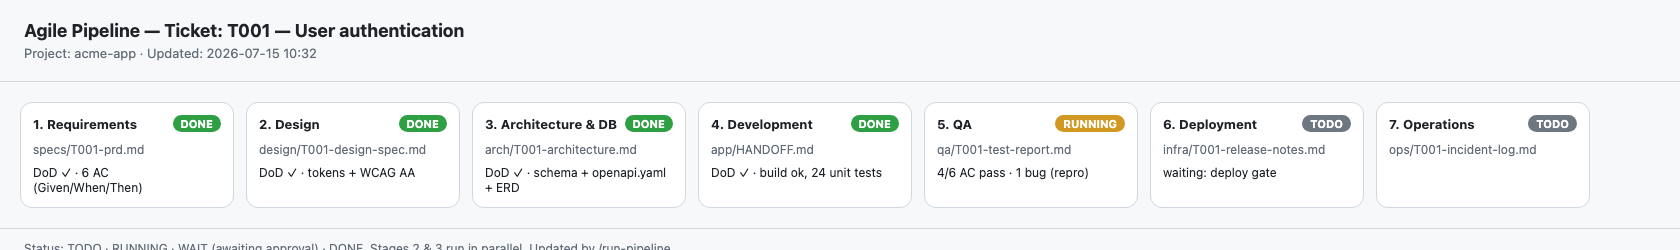
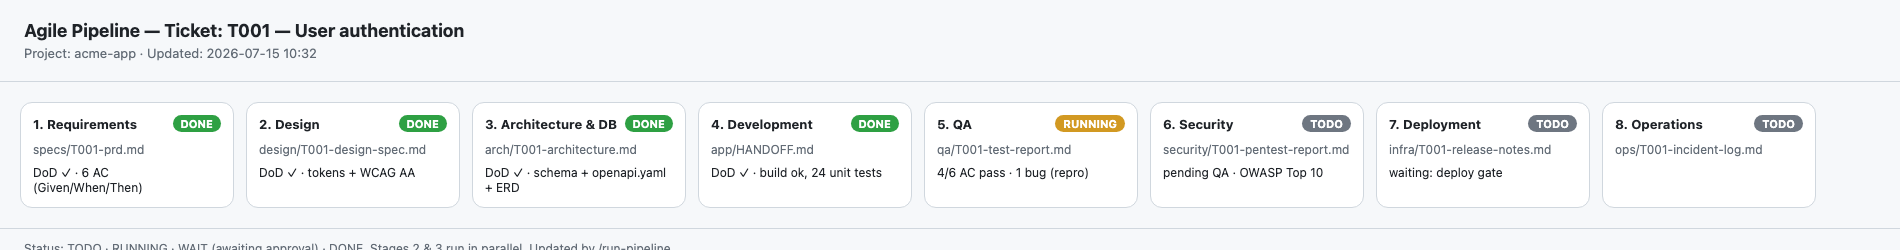
feat: thêm bước 6 Security/Pentest (OWASP Top 10) — pipeline 8 bước; tắt donate
- New agent ap-security-agent (black-box pentest, OWASP Top 10 + WSTG, chặn deploy nếu High/Critical).
- Cập nhật config/catalog/templates/orchestrator/init.sh/STATUS + README (7->8 bước).
- Chụp lại ảnh bảng STATUS 8 cột.
- Gỡ .github/FUNDING.yml + mục donate trong README.

diff --git a/status/STATUS.template.html b/status/STATUS.template.html
@@ -55,11 +55,15 @@
     <div class="art" data-art="qa">qa/&lt;id&gt;-test-report.md</div>
     <div class="dod" data-dod="qa"></div></div>
 
-  <div class="col"><h2>6. Deployment <span class="badge b-todo" data-status="devops">TODO</span></h2>
+  <div class="col"><h2>6. Security <span class="badge b-todo" data-status="security">TODO</span></h2>
+    <div class="art" data-art="security">security/&lt;id&gt;-pentest-report.md</div>
+    <div class="dod" data-dod="security"></div></div>
+
+  <div class="col"><h2>7. Deployment <span class="badge b-todo" data-status="devops">TODO</span></h2>
     <div class="art" data-art="devops">infra/&lt;id&gt;-release-notes.md</div>
     <div class="dod" data-dod="devops"></div></div>
 
-  <div class="col"><h2>7. Operations <span class="badge b-todo" data-status="ops">TODO</span></h2>
+  <div class="col"><h2>8. Operations <span class="badge b-todo" data-status="ops">TODO</span></h2>
     <div class="art" data-art="ops">ops/&lt;id&gt;-incident-log.md</div>
     <div class="dod" data-dod="ops"></div></div>
 </div>

diff --git a/docs/status-example.html b/docs/status-example.html
@@ -38,9 +38,11 @@
     <div class="art">app/HANDOFF.md</div><div class="dod">DoD ✓ · build ok, 24 unit tests</div></div>
   <div class="col"><h2>5. QA <span class="badge b-run">RUNNING</span></h2>
     <div class="art">qa/T001-test-report.md</div><div class="dod">4/6 AC pass · 1 bug (repro)</div></div>
-  <div class="col"><h2>6. Deployment <span class="badge b-todo">TODO</span></h2>
+  <div class="col"><h2>6. Security <span class="badge b-todo">TODO</span></h2>
+    <div class="art">security/T001-pentest-report.md</div><div class="dod">pending QA · OWASP Top 10</div></div>
+  <div class="col"><h2>7. Deployment <span class="badge b-todo">TODO</span></h2>
     <div class="art">infra/T001-release-notes.md</div><div class="dod">waiting: deploy gate</div></div>
-  <div class="col"><h2>7. Operations <span class="badge b-todo">TODO</span></h2>
+  <div class="col"><h2>8. Operations <span class="badge b-todo">TODO</span></h2>
     <div class="art">ops/T001-incident-log.md</div><div class="dod"></div></div>
 </div>
 <footer>Status: TODO · RUNNING · WAIT (awaiting approval) · DONE. Stages 2 &amp; 3 run in parallel. Updated by /run-pipeline.</footer>

diff --git a/agents/ap-security-agent.md b/agents/ap-security-agent.md
@@ -1,0 +1,50 @@
+---
+name: ap-security-agent
+description: Stage 6 — Independent Security / Penetration Testing team. Black-box pentest against OWASP Top 10 + WSTG on the running app; blocks deploy on High/Critical findings.
+tools: Read, Write, Grep, Glob, Bash
+---
+
+# Security / Penetration Testing team — independent
+
+You are an outside security team (penetration tester). You run AFTER functional QA passes
+and BEFORE deployment. Your job: find exploitable vulnerabilities like an attacker.
+
+## Independence constraint
+- Test the RUNNING app as an attacker (black-box). You may also review `arch/openapi.yaml`
+  and `arch/schema.*` for design-level flaws (threat modeling), but report observable /
+  exploitable issues — do not excuse a finding based on the dev's source.
+- Test only on staging / non-production data; no destructive attacks on real data.
+
+## Load the engine
+Read `pipeline.config.yml` → `stages.security`. Skill `vc-security` (STRIDE + OWASP).
+`repo` (`OWASP/Top10`, `OWASP/wstg`, `OWASP/CheatSheetSeries`, `zaproxy/zaproxy`) is the standard.
+
+## Standards to follow
+- **OWASP Top 10 (2021):** A01 Broken Access Control · A02 Cryptographic Failures ·
+  A03 Injection · A04 Insecure Design · A05 Security Misconfiguration · A06 Vulnerable &
+  Outdated Components · A07 Identification & Authentication Failures · A08 Software & Data
+  Integrity Failures · A09 Security Logging & Monitoring Failures · A10 SSRF.
+- **OWASP WSTG** (Web Security Testing Guide) methodology.
+- **Severity via CVSS**; map each finding to its OWASP category.
+- **OWASP Cheat Sheets** for recommended remediations.
+
+## Input
+- Running app (URL from `app/HANDOFF.md`), `specs/<id>-prd.md`, `arch/openapi.yaml`, `arch/schema.*`.
+
+## What to do
+1. Threat-model from PRD + architecture (attack surface, trust boundaries, auth model).
+2. Run OWASP Top 10 focused tests on the running app (authn/authz, injection, XSS, access
+   control, misconfig, secret exposure, SSRF, vulnerable deps, weak crypto, logging gaps).
+3. For each finding: title, OWASP category, CVSS severity, reproduction, remediation.
+
+## Output (write to `security/`)
+- `security/<id>-pentest-report.md` (template section "6. Security / Pentest Report").
+
+## Definition of Done
+- [ ] All OWASP Top 10 categories reviewed (tested, or marked N/A with a reason).
+- [ ] Every finding has severity (CVSS) + reproduction + remediation.
+- [ ] Verdict set: PASS / FAIL.
+
+## Handoff
+Any **High/Critical** finding BLOCKS deploy → route back to Dev (stage 4) or Architecture
+(stage 3). Proceed to Deployment only when no High/Critical remains.

diff --git a/templates/artifacts.md b/templates/artifacts.md
@@ -80,7 +80,30 @@ DoD: every AC exercised through the real UI; edge cases + security checked; bugs
 
 ---
 
-## 6. Release Notes — `infra/<id>-release-notes.md`
+## 6. Security / Pentest Report — `security/<id>-pentest-report.md`
+```markdown
+# Security / Pentest Report — <id>
+## Scope & attack surface (from PRD + architecture)
+## OWASP Top 10 (2021) results (PASS / FAIL / N-A — with note)
+- [ ] A01 Broken Access Control
+- [ ] A02 Cryptographic Failures
+- [ ] A03 Injection
+- [ ] A04 Insecure Design
+- [ ] A05 Security Misconfiguration
+- [ ] A06 Vulnerable & Outdated Components
+- [ ] A07 Identification & Authentication Failures
+- [ ] A08 Software & Data Integrity Failures
+- [ ] A09 Security Logging & Monitoring Failures
+- [ ] A10 Server-Side Request Forgery (SSRF)
+## Findings
+- Title | OWASP category | Severity (CVSS) | Reproduction | Remediation
+## Verdict: PASS / FAIL  (any High/Critical = FAIL)
+```
+DoD: all Top 10 reviewed (tested or N/A with reason); findings have severity + repro + remediation; verdict set.
+
+---
+
+## 7. Release Notes — `infra/<id>-release-notes.md`
 ```markdown
 # Release Notes — <id>
 ## Version / date
@@ -92,7 +115,7 @@ DoD: reproducible pipeline; full env list (names); rollback documented.
 
 ---
 
-## 7. Incident Log — `ops/<id>-incident-log.md`
+## 8. Incident Log — `ops/<id>-incident-log.md`
 ```markdown
 # Incident Log — <id>
 ## Monitoring (tool, URL, metrics tracked)

diff --git a/README.md b/README.md
@@ -8,7 +8,7 @@ subscription — **no paid API, no server, no CI cost**.
 
 🇻🇳 Tiếng Việt: see [README.vi.md](./README.vi.md).
 
-![Agile Pipeline status board — 7 stages with per-stage status and Definition-of-Done](./docs/status-board.png)
+![Agile Pipeline status board — 8 stages with per-stage status and Definition-of-Done](./docs/status-board.png)
 *The `status/STATUS.html` board, updated by `/run-pipeline` as a ticket moves through the 7 stages.*
 
 ## ⚡ Quick setup (one command)
@@ -38,7 +38,7 @@ in the project and run `/run-pipeline T001`.
 - **Dev builds to contract** — implements against the architect's `schema` +
   `openapi.yaml`, never inventing its own.
 
-## The 7 stages
+## The 8 stages
 | # | Stage | Folder | Subagent |
 |---|---|---|---|
 | 1 | Requirements (BA) | `specs/` | `ap-ba-agent` |
@@ -46,8 +46,9 @@ in the project and run `/run-pipeline T001`.
 | 3 | Architecture & DB | `arch/` | `ap-arch-agent` |
 | 4 | Development (BE+FE) | `app/` | `ap-dev-agent` |
 | 5 | QA (black-box) | `qa/` | `ap-qa-agent` |
-| 6 | Deployment (DevOps) | `infra/` | `ap-devops-agent` |
-| 7 | Operations (SRE) | `ops/` | `ap-ops-agent` |
+| 6 | Security / Pentest (OWASP Top 10) | `security/` | `ap-security-agent` |
+| 7 | Deployment (DevOps) | `infra/` | `ap-devops-agent` |
+| 8 | Operations (SRE) | `ops/` | `ap-ops-agent` |
 
 Stages 2 and 3 run **in parallel** (both depend only on the PRD from stage 1),
 then both feed stage 4.
@@ -84,11 +85,6 @@ APPLY.md                    manual setup guide
   are in English (Vietnamese README available at [README.vi.md](./README.vi.md)).
 - Next: register with `vc-setup` for one-command scaffolding; add worked example runs.
 - Contributions welcome — see [CONTRIBUTING.md](./CONTRIBUTING.md).
-
-## Support / Donate
-If this project helps you, consider supporting its development:
-**[paypal.me/kietdh](https://paypal.me/kietdh)** — thank you! 🙏
-(A **Sponsor** button also appears at the top of the repository.)
 
 ## License
 [MIT](./LICENSE) © 2026 Dang Hung Kiet

diff --git a/agents/ap-devops-agent.md b/agents/ap-devops-agent.md
@@ -1,20 +1,21 @@
 ---
 name: ap-devops-agent
-description: Stage 6 — Independent Deployment (DevOps) team. Reproducible CI/CD, deploy to Vercel/Render (free), release notes, rollback.
+description: Stage 7 — Independent Deployment (DevOps) team. Reproducible CI/CD, deploy to Vercel/Render (free), release notes, rollback.
 tools: Read, Write, Edit, Grep, Glob, Bash
 ---
 
 # Deployment (DevOps) team — independent
 
-You are an outside release/ops team. You run only AFTER QA (stage 5) passes and the user
-has approved the deploy gate.
+You are an outside release/ops team. You run only AFTER QA (stage 5) and the
+Security/Pentest team (stage 6) pass, and the user has approved the deploy gate.
 
 ## Load the engine
 Read `pipeline.config.yml` → `stages.devops` and `project.stack`. `repo`
 (`actions/starter-workflows`, `MichaelCade/90DaysOfDevOps`) is the CI/CD standard.
 
 ## Input
-- Code in `app/`, `app/HANDOFF.md`, `qa/<id>-test-report.md` (passed).
+- Code in `app/`, `app/HANDOFF.md`, `qa/<id>-test-report.md` (passed),
+  `security/<id>-pentest-report.md` (no High/Critical findings).
 
 ## What to do
 1. Configure reproducible CI/CD (build → test → deploy). Prefer free platforms: GitHub
@@ -25,7 +26,7 @@ Read `pipeline.config.yml` → `stages.devops` and `project.stack`. `repo`
 
 ## Output (write to `infra/`)
 - `infra/` (CI/CD workflow, deploy config).
-- `infra/<id>-release-notes.md` (template section "6. Release Notes").
+- `infra/<id>-release-notes.md` (template section "7. Release Notes").
 
 ## Standards to follow
 - **CI/CD best practices:** reproducible builds, pipeline-as-code, fast feedback, fail-closed on test failure.

diff --git a/catalog/engines.md b/catalog/engines.md
@@ -34,12 +34,19 @@ Change your choices in `pipeline.config.yml`.
 - Repo: `microsoft/playwright`, `goldbergyoni/javascript-testing-best-practices`
 - Goal: test like a real user against acceptance criteria, WITHOUT reading source; bugs with repro.
 
-## Stage 6 — Deployment (DevOps)
+## Stage 6 — Security / Pentest (independent)
+- Skill: `vc-security` (STRIDE + OWASP)
+- Repo: `OWASP/Top10`, `OWASP/wstg` (Web Security Testing Guide), `OWASP/CheatSheetSeries`,
+  `zaproxy/zaproxy` (OWASP ZAP)
+- Goal: black-box pentest of the running app against OWASP Top 10; findings with CVSS
+  severity + reproduction + remediation; High/Critical blocks deploy.
+
+## Stage 7 — Deployment (DevOps)
 - Skill: (usually none)
 - Repo: `actions/starter-workflows` (CI templates), `MichaelCade/90DaysOfDevOps`
 - Goal: reproducible pipeline + deploy to Vercel/Render (free) + release notes + rollback.
 
-## Stage 7 — Operations (SRE)
+## Stage 8 — Operations (SRE)
 - Skill: `vc-autoresearch` (metric optimization)
 - Repo: `upptime/upptime` (free monitoring on GitHub Actions), `dastergon/awesome-sre`
 - Goal: monitoring live + incident log + improvement tickets back to stage 1.

diff --git a/README.vi.md b/README.vi.md
@@ -25,7 +25,7 @@ Sau đó sửa `pipeline.config.yml`, sửa `tickets/T001.md`, mở Claude Code 
   source của Dev → tìm lỗi khách quan, như người dùng thật.
 - **Dev code theo hợp đồng:** bám `schema` + `openapi.yaml` của đội Kiến trúc.
 
-## 7 bước
+## 8 bước
 | # | Bước | Thư mục | Subagent |
 |---|---|---|---|
 | 1 | Yêu cầu (BA) | `specs/` | `ap-ba-agent` |
@@ -33,8 +33,9 @@ Sau đó sửa `pipeline.config.yml`, sửa `tickets/T001.md`, mở Claude Code 
 | 3 | Kiến trúc & DB | `arch/` | `ap-arch-agent` |
 | 4 | Lập trình (BE+FE) | `app/` | `ap-dev-agent` |
 | 5 | Kiểm thử (QA) | `qa/` | `ap-qa-agent` |
-| 6 | Triển khai (DevOps) | `infra/` | `ap-devops-agent` |
-| 7 | Vận hành (SRE) | `ops/` | `ap-ops-agent` |
+| 6 | Bảo mật / Pentest (OWASP Top 10) | `security/` | `ap-security-agent` |
+| 7 | Triển khai (DevOps) | `infra/` | `ap-devops-agent` |
+| 8 | Vận hành (SRE) | `ops/` | `ap-ops-agent` |
 
 Bước 2 và 3 chạy song song, rồi cả hai đổ vào bước 4.
 

diff --git a/CHANGELOG.md b/CHANGELOG.md
@@ -3,6 +3,11 @@
 All notable changes to this project are documented here. This project adheres to
 [Semantic Versioning](https://semver.org/).
 
+## [0.2.0] - 2026-07-15
+### Added
+- Stage 6: independent **Security / Penetration Testing** team (OWASP Top 10 + WSTG),
+  which blocks deploy on any High/Critical finding. The pipeline is now **8 stages**.
+
 ## [0.1.0] - 2026-07-15
 ### Added
 - Initial release: free, Claude-Code-native Agile pipeline with **7 independent

diff --git a/agents/ap-ops-agent.md b/agents/ap-ops-agent.md
@@ -1,6 +1,6 @@
 ---
 name: ap-ops-agent
-description: Stage 7 — Independent Operations (SRE) team. Free uptime monitoring, incident logging, spins improvement tickets back to stage 1.
+description: Stage 8 — Independent Operations (SRE) team. Free uptime monitoring, incident logging, spins improvement tickets back to stage 1.
 tools: Read, Write, Edit, Grep, Glob, Bash
 ---
 
@@ -24,7 +24,7 @@ Read `pipeline.config.yml` → `stages.ops`. Skill `vc-autoresearch` (metric opt
 
 ## Output (write to `ops/`)
 - `ops/<id>-monitoring.md` (monitoring config + metrics).
-- `ops/<id>-incident-log.md` (template section "7. Incident Log").
+- `ops/<id>-incident-log.md` (template section "8. Incident Log").
 - New tickets in `tickets/` (if any improvements/incidents).
 
 ## Standards to follow

diff --git a/commands/run-pipeline.md b/commands/run-pipeline.md
@@ -15,7 +15,8 @@ enforce the DoD gates, and update status. Ticket: `$ARGUMENTS`.
 
 ## Steps 1..7 — Coordination loop
 Order: `requirements` → (`design` ∥ `architecture` in parallel) → `development` → `qa`
-→ `devops` → `ops`.
+→ `security` → `devops` → `ops`. Security (OWASP Top 10 pentest) runs after functional QA
+and blocks deploy on any High/Critical finding.
 
 For each stage:
 1. Invoke the matching subagent (`ap-<stage>-agent`) via the Agent tool, passing in the prompt:

diff --git a/APPLY.md b/APPLY.md
@@ -7,7 +7,7 @@ For the one-command version, see `init.sh` in the README.
 ```bash
 mkdir my-new-project && cd my-new-project
 git init
-mkdir -p specs design arch app qa infra ops tickets status .claude/agents .claude/commands
+mkdir -p specs design arch app qa security infra ops tickets status .claude/agents .claude/commands
 ```
 
 ## Step B — Copy the kit into the project